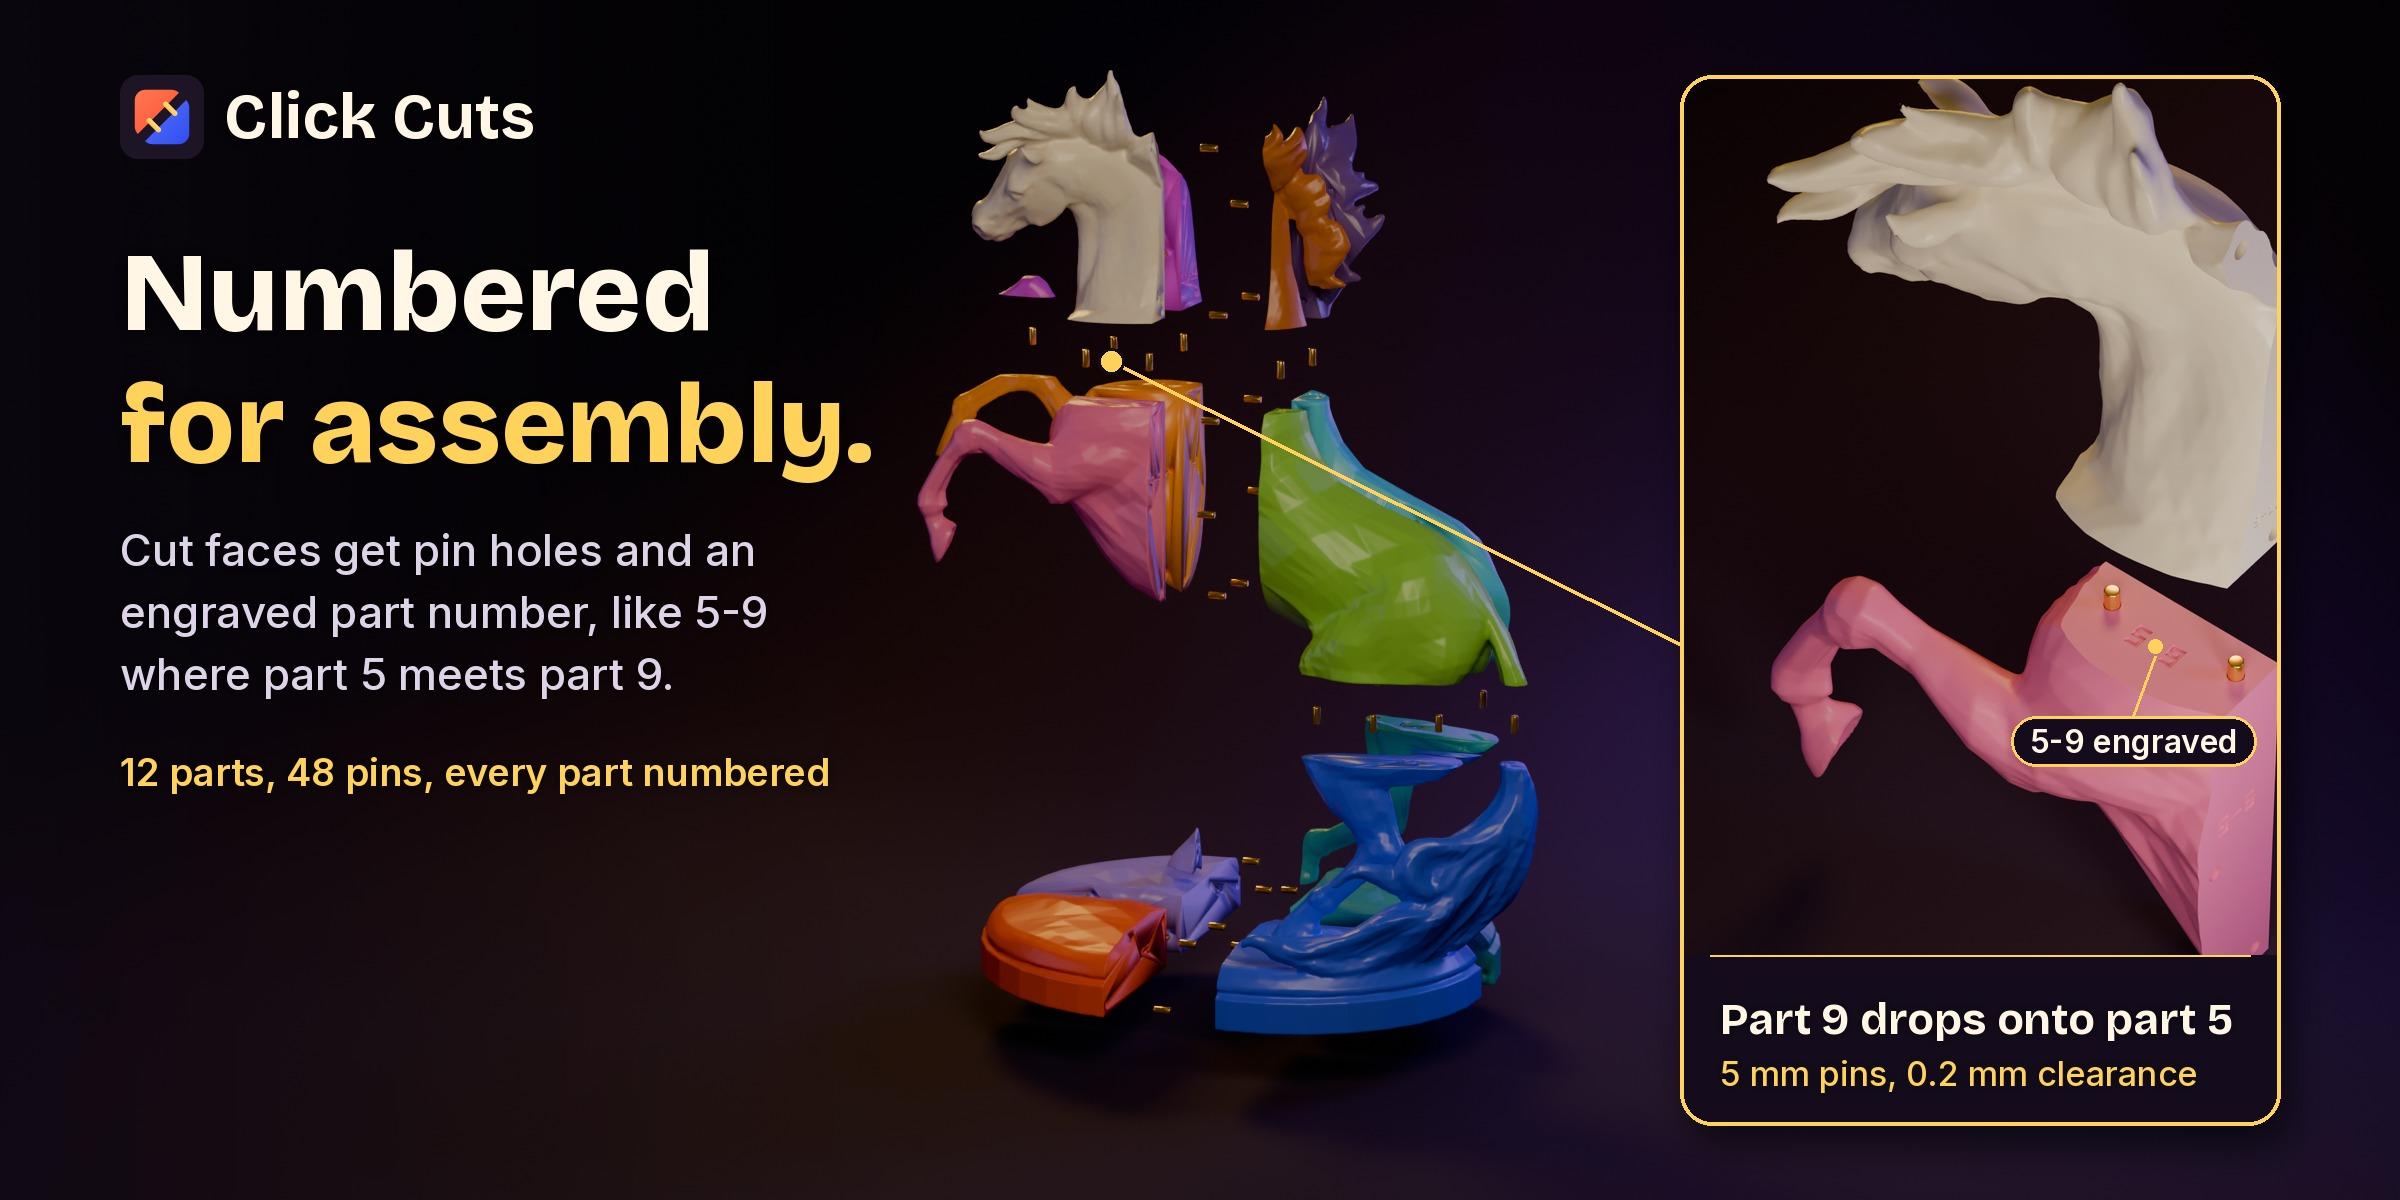
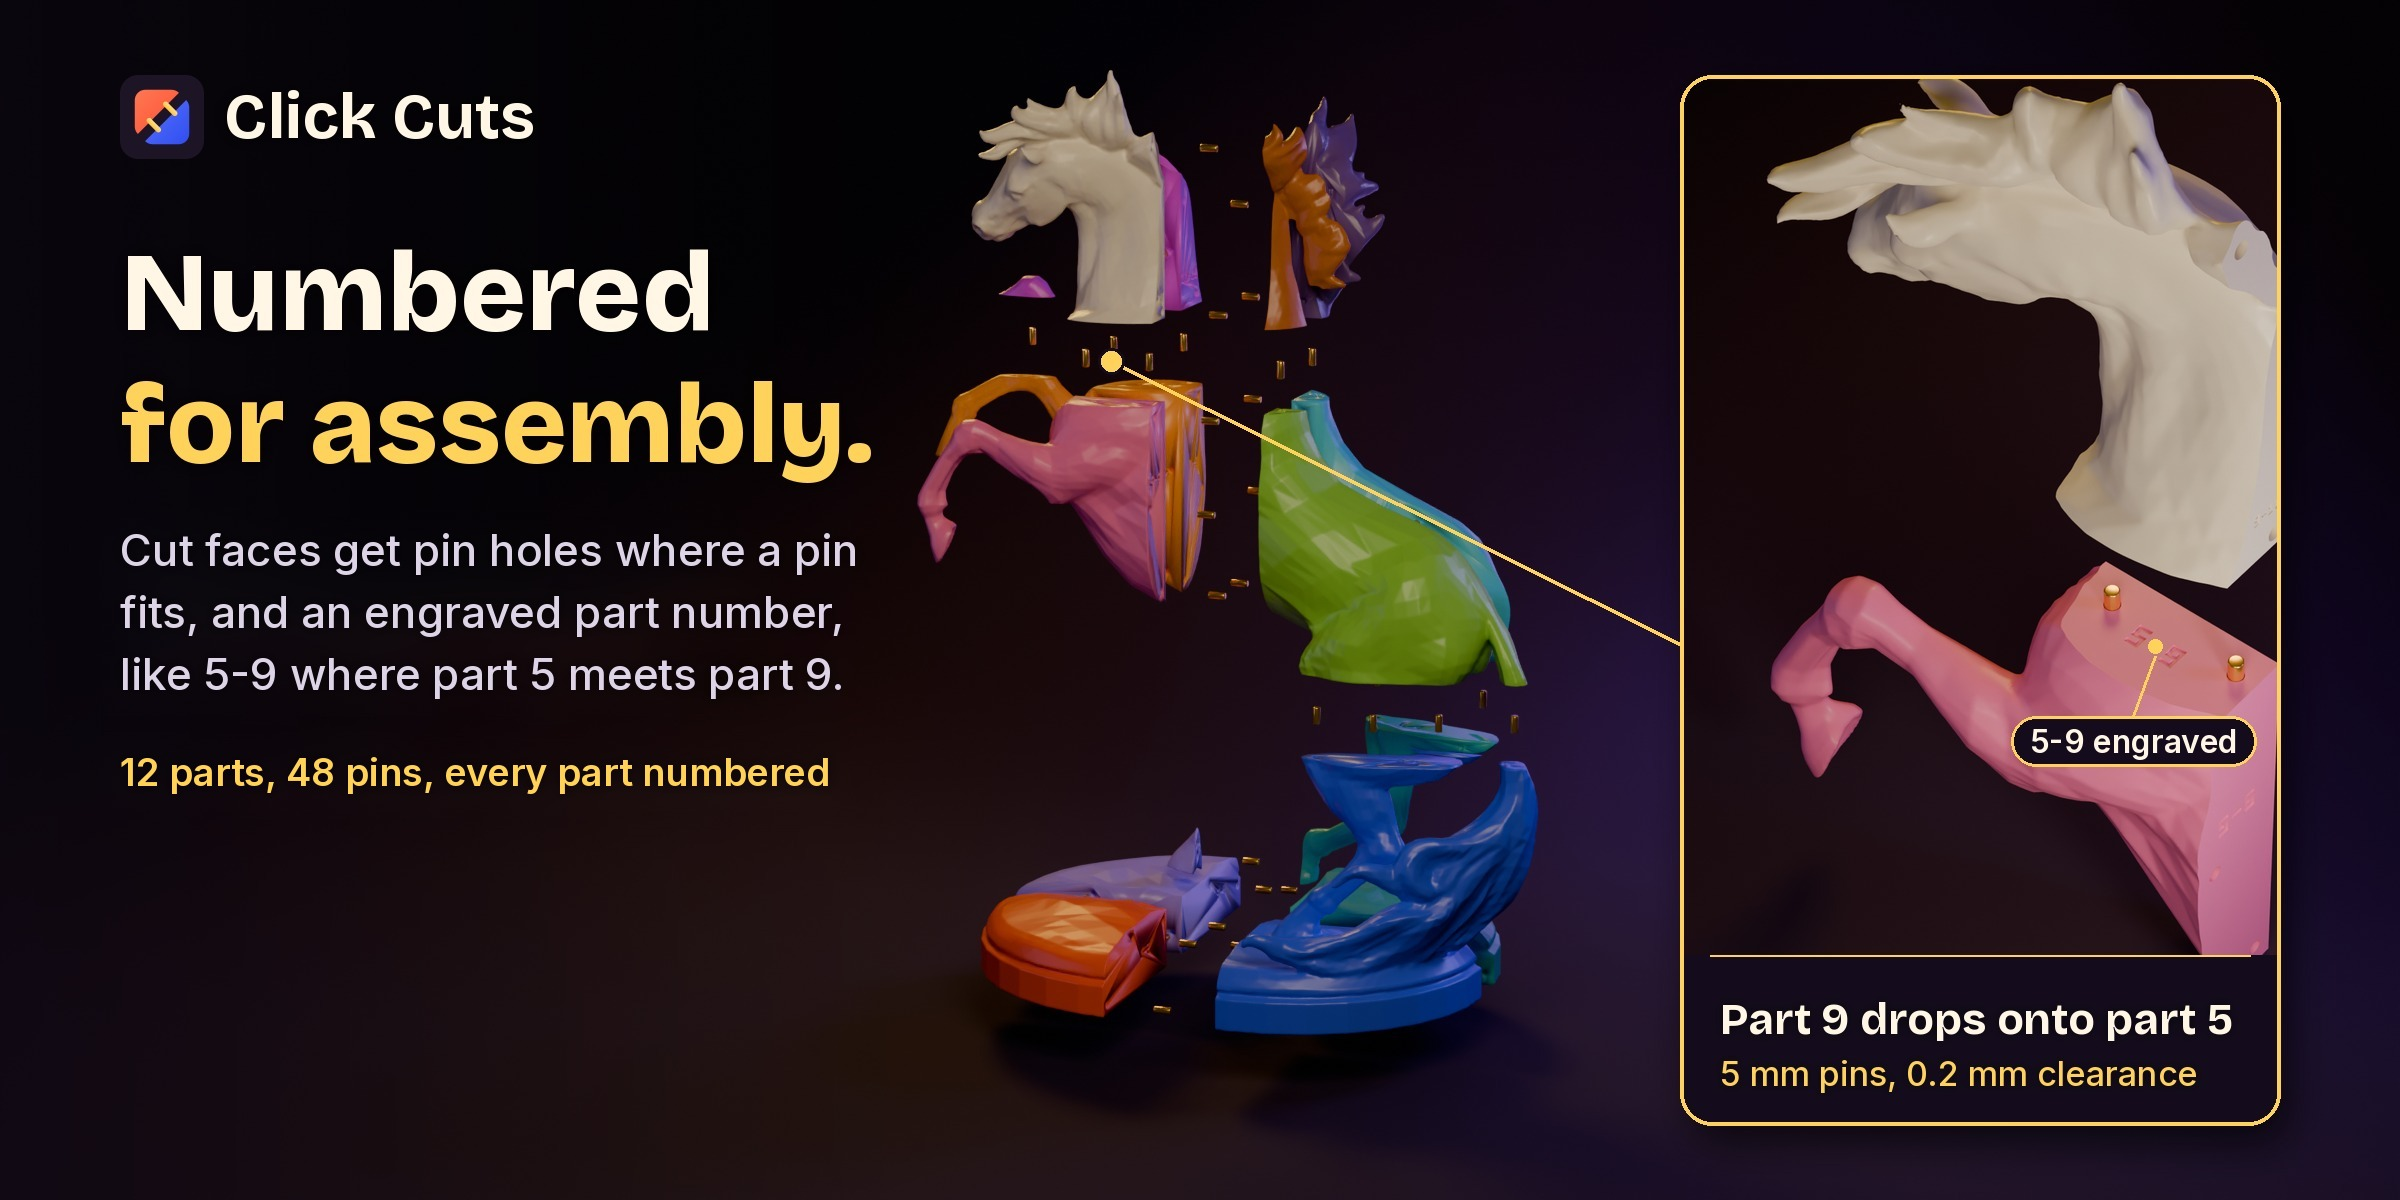
Beeldmaker: #105 M1 van Daan in 'Numbered for assembly' (pin holes where a pin fits), klaar om te plakken
Claude-Session: https://claude.ai/code/session_01RMWUyhG8bQotjzAiheXeDT

Changed region(s): [[0.0312, 0.4317, 0.3438, 0.5242], [0.0312, 0.555, 0.3438, 0.5858]]

diff --git a/ontwerp/cuts-galerij/bron/tekst_nummer_paard_m1.py b/ontwerp/cuts-galerij/bron/tekst_nummer_paard_m1.py
@@ -1,0 +1,104 @@
+"""M1 van Daan (#129) op 'Numbered for assembly' met het paard (Beeldmaker, 26 nov 2026, issue #105).
+
+python3 tekst_nummer_paard_m1.py <beeldenmap> <fontmap> [nummer-paard.json] [nummer-naad.json]
+
+De zin links beloofde pengaten op elk snijvlak. De add-on zet geen pen waar er geen past ("Glue this joint"),
+dus de zin wordt: "Cut faces get pin holes where a pin fits, and an engraved part number, like 5-9 where part 5
+meets part 9." De renders zelf zijn niet bewaard, dus dit script haalt de oude zin en de getallenregel uit de
+bestaande jpg's (inpainten op het egale donkere verloop links) en zet de nieuwe tekst erin met dezelfde letters,
+maten en plek als tekst_nummer_paard.py (die heeft nu ook de nieuwe zin, voor een volgende render).
+Beeld, paard en kaart blijven pixel voor pixel gelijk.
+"""
+import json
+import os
+import sys
+
+import cv2
+import numpy as np
+from PIL import Image, ImageDraw, ImageFilter, ImageFont
+
+MAP, FONTS = sys.argv[1:3]
+META = sys.argv[3] if len(sys.argv) > 3 else os.path.join(MAP, "nummer-paard.json")
+NMETA = sys.argv[4] if len(sys.argv) > 4 else os.path.join(MAP, "nummer-naad.json")
+GOUD, ZACHT = (255, 210, 92), (222, 212, 232)
+W, H, X = 2400, 1350, 120
+
+
+def font(naam, maat, gewicht):
+    f = ImageFont.truetype(os.path.join(FONTS, naam), maat)
+    try:
+        f.set_variation_by_name(gewicht)
+    except Exception:  # noqa: BLE001
+        pass
+    return f
+
+
+def regels(tekst, f, breed):
+    uit, nu = [], ""
+    for w in tekst.split(" "):
+        t = (nu + " " + w).strip()
+        if f.getlength(t) > breed and nu:
+            uit.append(nu)
+            nu = w
+        else:
+            nu = t
+    return uit + [nu]
+
+
+def lagen(zin, m):
+    """Schaduw- en tekstlaag op 2400x1350, zoals schaduwtekst() in tekst_nummer_paard.py."""
+    schaduw = Image.new("RGBA", (W, H), (0, 0, 0, 0))
+    tekst = Image.new("RGBA", (W, H), (0, 0, 0, 0))
+    fz, fk = font("Inter.ttf", 44, "Medium"), font("Inter.ttf", 38, "SemiBold")
+    y = 300 + 2 * 132 + 34
+    regs = []
+    for r in regels(zin, fz, 740):
+        regs.append((r, y, fz, ZACHT))
+        y += 62
+    y += 40
+    regs.append((f"{m['stukken']} parts, {m['pennen']} pins, every part numbered", y, fk, GOUD))
+    for r, yy, f, kl in regs:
+        s = Image.new("RGBA", (W, H), (0, 0, 0, 0))
+        ImageDraw.Draw(s).text((X, yy), r, font=f, fill=(0, 0, 0, 170))
+        schaduw.alpha_composite(s.filter(ImageFilter.GaussianBlur(6)))
+        ImageDraw.Draw(tekst).text((X, yy), r, font=f, fill=kl)
+    return schaduw, tekst, len(regs) - 1
+
+
+def naar_doel(laag, maat):
+    if maat == (2400, 1200):
+        return laag.crop((0, 75, W, 75 + 1200))
+    return laag.resize(maat, Image.LANCZOS)
+
+
+def main():
+    m, nm = json.load(open(META)), json.load(open(NMETA))
+    a, b, lab = nm["stuk"], nm["buur"], nm["label"]
+    oud = f"Cut faces get pin holes and an engraved part number, like {lab} where part {a} meets part {b}."
+    nieuw = (f"Cut faces get pin holes where a pin fits, and an engraved part number, like {lab} where part {a} "
+             f"meets part {b}.")
+    _, oud_t, _ = lagen(oud, m)
+    nw_s, nw_t, n = lagen(nieuw, m)
+    print("regels nieuw:", n)
+    for naam in ("nummer-paard-2400x1200.jpg", "nummer-paard-1920x1080.jpg"):
+        p = os.path.join(MAP, naam)
+        img = Image.open(p).convert("RGB")
+        maat = img.size
+        # masker: oude tekst plus de rand van zijn schaduw
+        a_oud = np.array(naar_doel(oud_t, maat).split()[3])
+        straal = int(26 * maat[0] / W)
+        masker = cv2.dilate((a_oud > 8).astype(np.uint8) * 255, np.ones((2 * straal + 1,) * 2, np.uint8))
+        bgr = cv2.cvtColor(np.array(img), cv2.COLOR_RGB2BGR)
+        schoon = cv2.inpaint(bgr, masker, 25, cv2.INPAINT_TELEA)
+        # inpainten laat vlekjes: binnen het masker zacht vervagen, met een zachte overgang
+        vaag = cv2.GaussianBlur(schoon, (0, 0), 18)
+        zacht = cv2.GaussianBlur(masker.astype(np.float32) / 255, (0, 0), 8)[..., None]
+        schoon = (schoon * (1 - zacht) + vaag * zacht).astype(np.uint8)
+        uit = Image.fromarray(cv2.cvtColor(schoon, cv2.COLOR_BGR2RGB)).convert("RGBA")
+        uit.alpha_composite(naar_doel(nw_s, maat))
+        uit.alpha_composite(naar_doel(nw_t, maat))
+        uit.convert("RGB").save(p, quality=92)
+        print("klaar", p)
+
+
+main()

diff --git a/ontwerp/cuts-galerij/bron/tekst_nummer_paard.py b/ontwerp/cuts-galerij/bron/tekst_nummer_paard.py
@@ -95,7 +95,7 @@ def main():
         y += 132
     y += 34
     a, b = nm["stuk"], nm["buur"]
-    zin = (f"Cut faces get pin holes and an engraved part number, like {nm['label']} where part {a} "
+    zin = (f"Cut faces get pin holes where a pin fits, and an engraved part number, like {nm['label']} where part {a} "
            f"meets part {b}.")
     fz = font("Inter.ttf", 44, "Medium")
     for r in regels(zin, fz, 740):

diff --git a/producten/blender-splitser/galerij.md b/producten/blender-splitser/galerij.md
@@ -34,7 +34,7 @@ Kies zelf welk model de blinde test wint; zet Cleave (plek 1) ernaast.
 1. Hoofdbeeld: naam plus de haak **Pick your printer. Click once. Every part fits.** (GESLAAGD als tekst). De rechters vroegen "visual proof" van de ene klik: laat het voor en na zien in één beeld.
 2. **Too big for your printer.** Pick your printer from the list. In this picture the gold box marks its bed, and this model is far bigger.
 3. **One click, every part fits.** Split to fit plans every cut, so each part fits your bed, with pins and pin holes on the cut faces.
-4. **Numbered for assembly.** Cut faces get pin holes and an engraved part number, like 3-5 where part 3 meets part 5.
+4. **Numbered for assembly.** Cut faces get pin holes where a pin fits, and an engraved part number, like 5-9 where part 5 meets part 9.
 5. **Checked before you print.** Each part turns green when it fits, is watertight and has enough wall around its holes. Orange or red tells you why.
 6. **Pins that fit your printer.** Print the small fit test block first: your own pin at four clearances. Pick the one that fits, and Click Cuts remembers it for that printer and material.
 7. **Three steps in one tab.** Press N in the 3D viewport and open the Click Cuts tab: pick your printer, Split to fit, Export as STL or 3MF in millimeters.

diff --git a/ontwerp/cuts-galerij/LEESMIJ.md b/ontwerp/cuts-galerij/LEESMIJ.md
@@ -56,3 +56,5 @@ SV_STUK=5 SV_BUUR=9 SV_N_GAT=2 SV_RAND=55 SV_F=16 SV_LEEG=0 SV_BUUR_IN_BEELD=1 S
 python3 bron/tekst_nummer_paard.py render-paard.png nummer-paard.json render-naad.png nummer-naad.json beelden <fonts> ../../producten/blender-splitser/merk/icoon.svg
 ```
 Blinde test: set `organisatie/blindtest/sets/click-cuts-galerij-nummer-paard.json`, GESLAAGD: Gemini 2,0, ChatGPT 1,5 (`organisatie/blindtest/uitslag/click-cuts-galerij-nummer-paard-2026-11-26-0200.md`). Het oude `nummer-*` haalde 2,0 en 2,0.
+
+**M1 van Daan (#129), 26 nov ±03:41:** de zin links is nu "Cut faces get pin holes where a pin fits, and an engraved part number, like 5-9 where part 5 meets part 9." (de add-on zet geen pen waar er geen past en meldt dan "Glue this joint"). De renders waren niet bewaard, dus `bron/tekst_nummer_paard_m1.py` haalde de oude zin uit beide jpg's (inpainten op het donkere verloop) en zette de nieuwe erin met dezelfde letters (Inter, 44 Medium, 740 breed), plek en schaduw; paard en kaart zijn ongewijzigd. `bron/tekst_nummer_paard.py` heeft de nieuwe zin voor een volgende render. Geen nieuwe blinde test nodig (Daan).

diff --git a/berichten/beeldmaker.md b/berichten/beeldmaker.md
@@ -54,3 +54,6 @@ Webpagina's lees je met `curl` in Bash, nooit met WebFetch. WebFetch vraagt Thij
 
 ## 26 nov 2026 ±03:00 NL, Beeldmaker (eigen log)
 #105 wacht op Daan (#129), dus #94 stap 3 (mocht na #101): videobeeld 1280x720 voor de lange Pro-video `4-3l3MZZWPc` (`ontwerp/pro-videobeeld/beelden/videobeeld-*`), 'Rig in. Parts out.' met het MakeHuman-figuur uit de video, render in workflow `pro-videobeeld.yml`. Blinde test GESLAAGD: Gemini 1,0, ChatGPT 1,0 tegen Cleave, Split 3D Print en CatPin. Keuring #132. Volgende: na Daans ja klaar om te plakken (hoofdchat, YouTube) en #94 dicht; na ja op #129 hetzelfde voor #105.
+
+## 26 nov 2026 ±03:41 NL, Beeldmaker (eigen log)
+#105 dicht: M1 van Daan (#129) in `nummer-paard-*` ("pin holes where a pin fits") en in onderschrift 4, klaar om te plakken gemeld. #94 wacht op Daan (#132), #38 staat op later; verder niets begonnen.

diff --git a/berichten/hoofdchat.md b/berichten/hoofdchat.md
@@ -384,3 +384,6 @@ Tag `click-joints-v0.1.2` pushen (workflow staat op 0.1.2). Direct-zip voor dort
 
 ## 26 nov 03:45, hoofdmanager: plakken vanavond 20:00 (paden in de berichten hierboven)
 Klaar: vierkant Pro (#98, Gumroad toont nog tekenpop, curl 03:38), galerij 4 Pro (#125), gratis 0.1.2 (#127), Ebb-Short (#118, STOP), bundel voor Thijs (#121). Vóór 18:00: Docs-tab 1.2.8 (#119; Docs zeggen nu 1.0.1.zip). Grootste gat: `marketing/STOP` staat nog, dus geen sale-Short vr ochtend.
+
+## 26 nov 2026 ±03:41 NL, van Beeldmaker: klaar om te plakken, 'Numbered for assembly' (#105)
+`ontwerp/cuts-galerij/beelden/nummer-paard-*` (2400 Superhive, 1920 Gumroad), onderschrift 4 in galerij.md. GESLAAGD, Daan ja (#129).
